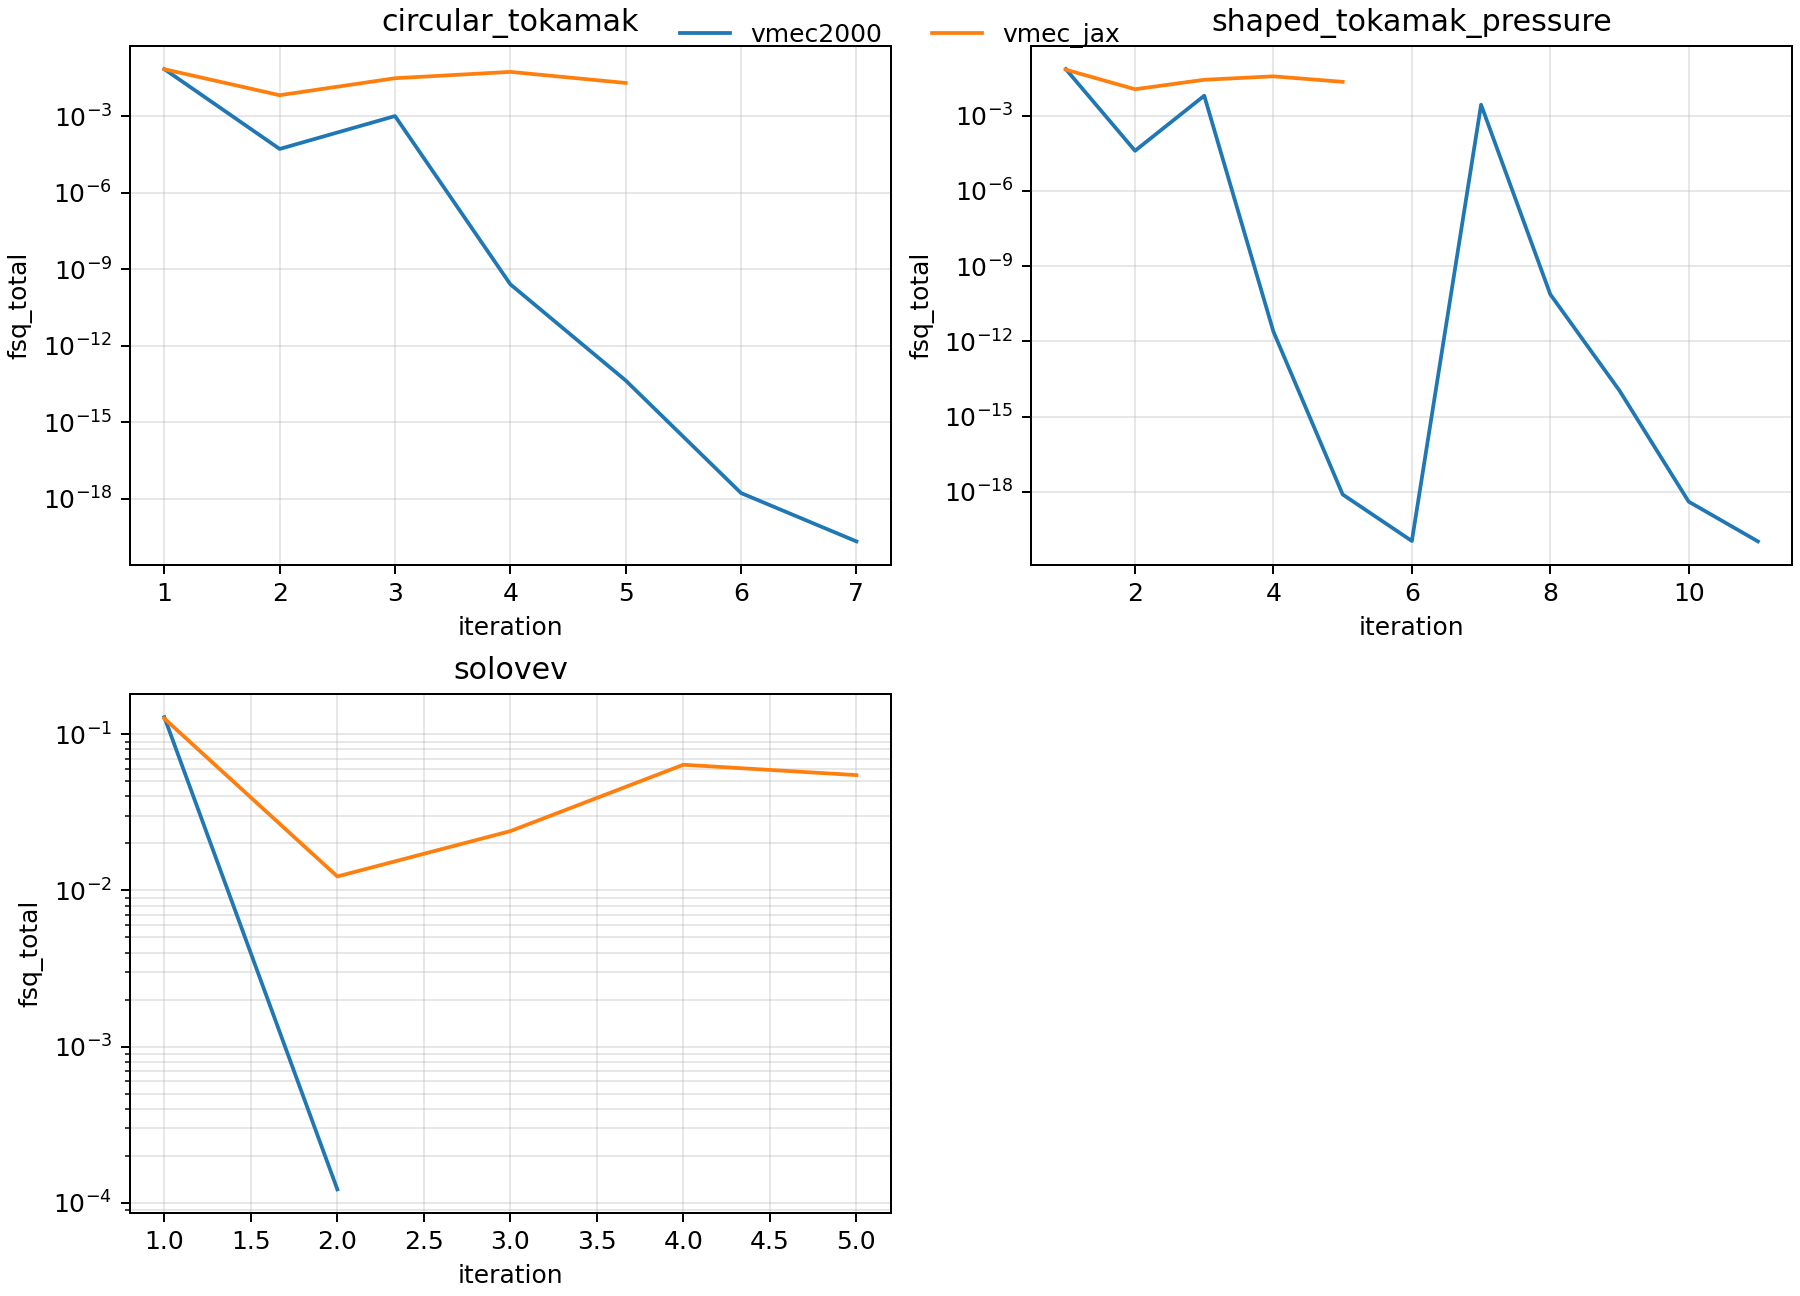
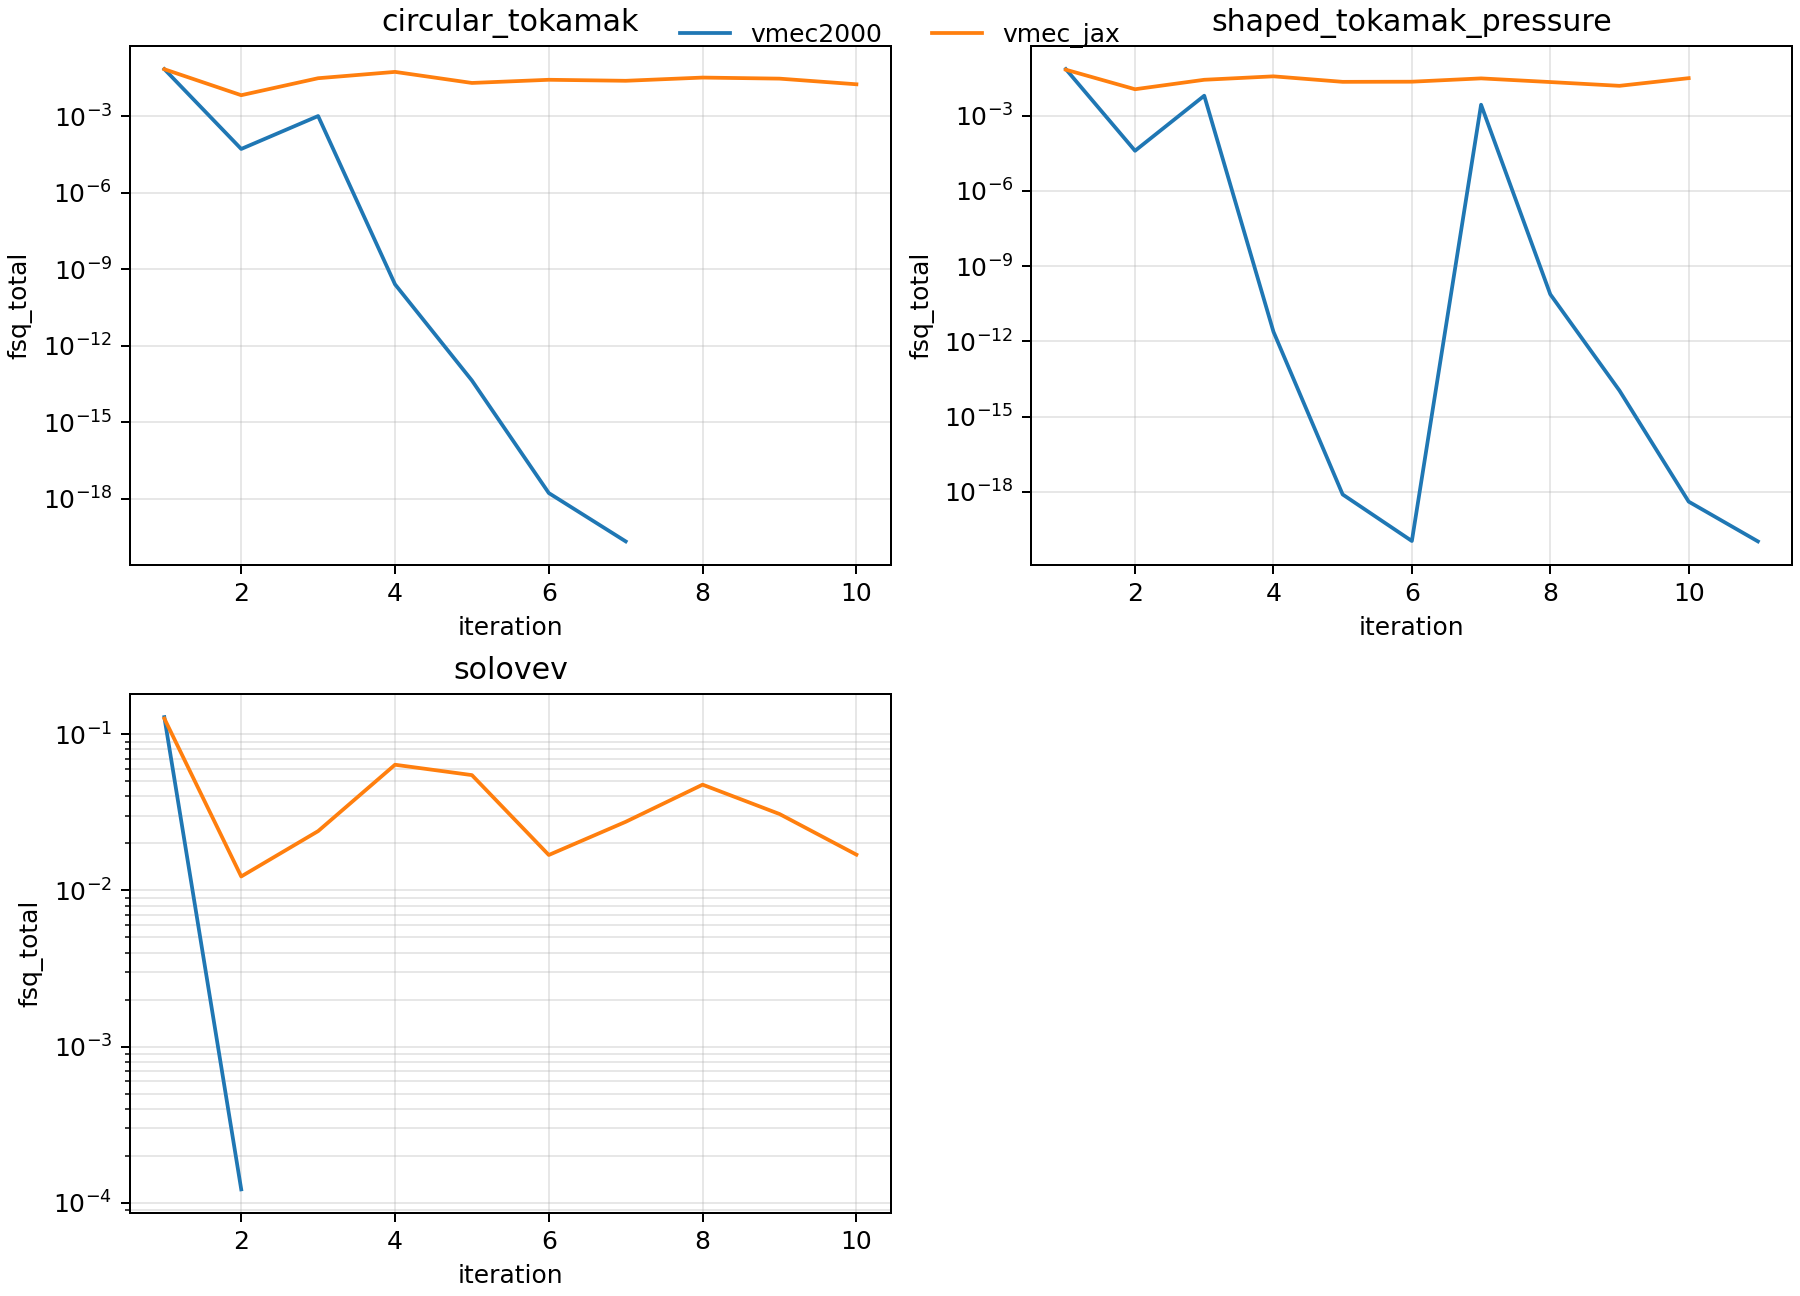
Add lambda-path audit and refresh bench figures

diff --git a/tools/diagnostics/vmec2000_exec_stage_trace_compare.py b/tools/diagnostics/vmec2000_exec_stage_trace_compare.py
@@ -820,6 +820,30 @@ def _max_abs_rel_err(vmec_vals: np.ndarray, jax_vals: np.ndarray, *, eps: float 
     return max_abs, max_rel, i
 
 
+def _decode_tomnsps_index(idx: int, shape: tuple[int, int, int]) -> str:
+    ns, mpol1p1, ntorp1 = shape
+    if idx < 0 or ns <= 0 or mpol1p1 <= 0 or ntorp1 <= 0:
+        return "idx decode unavailable"
+    js = idx // (mpol1p1 * ntorp1)
+    rem = idx % (mpol1p1 * ntorp1)
+    m = rem // ntorp1
+    n = rem % ntorp1
+    return f"js={js+1} m={m} n={n}"
+
+
+def _decode_gc_index(idx: int, shape: tuple[int, int, int, int]) -> str:
+    ns, ntorp1, mpol1p1, ntmax = shape
+    if idx < 0 or ns <= 0 or ntorp1 <= 0 or mpol1p1 <= 0 or ntmax <= 0:
+        return "idx decode unavailable"
+    js = idx // (ntorp1 * mpol1p1 * ntmax)
+    rem = idx % (ntorp1 * mpol1p1 * ntmax)
+    n = rem // (mpol1p1 * ntmax)
+    rem2 = rem % (mpol1p1 * ntmax)
+    m = rem2 // ntmax
+    t = rem2 % ntmax
+    return f"js={js+1} n={n} m={m} t={t+1}"
+
+
 def _patch_indata(text: str, *, updates: dict[str, str]) -> str:
     """Patch simple `&INDATA` assignments in a VMEC namelist.
 
@@ -1538,6 +1562,100 @@ def main() -> None:
                     tol = max(float(args.atol), float(args.rtol) * float(np.nanmax(np.abs(v))))
                     if max_abs > tol:
                         raise SystemExit(2)
+
+    # Lambda-path audit: flsc/gcl vs blmn/clmn at the first mismatch index.
+    if (vmec_tomnsps and jax_tomnsps) or (vmec_gc and jax_gc) or (vmec_kernels and jax_kernels):
+        print()
+        print("lambda-path audit (first mismatch across flsc/gcl/blmn/clmn):")
+
+        def _first_block_mismatch(block_name: str) -> tuple[int, int, float, float] | None:
+            common = sorted(set(vmec_tomnsps.keys()) & set(jax_tomnsps.keys()))
+            for it in common:
+                vm = np.asarray(vmec_tomnsps[it][block_name]).ravel()
+                jx = np.asarray(jax_tomnsps[it].get(block_name, np.zeros_like(vmec_tomnsps[it][block_name]))).ravel()
+                max_abs, max_rel, idx = _max_abs_rel_err(vm, jx)
+                tol = max(float(args.atol), float(args.rtol) * float(np.nanmax(np.abs(vm))))
+                if max_abs > tol:
+                    return it, idx, max_abs, max_rel
+            return None
+
+        def _first_gc_mismatch() -> tuple[int, int, float, float] | None:
+            vm_raw = {it: vals[2] for (stage, it), vals in vmec_gc.items() if stage == "raw"}
+            jx_raw = {it: vals[2] for (stage, it), vals in jax_gc.items() if stage == "raw"}
+            common = sorted(set(vm_raw.keys()) & set(jx_raw.keys()))
+            for it in common:
+                vm = np.asarray(vm_raw[it]).ravel()
+                jx = np.asarray(jx_raw[it]).ravel()
+                max_abs, max_rel, idx = _max_abs_rel_err(vm, jx)
+                tol = max(float(args.atol), float(args.rtol) * float(np.nanmax(np.abs(vm))))
+                if max_abs > tol:
+                    return it, idx, max_abs, max_rel
+            return None
+
+        def _first_kernel_mismatch(name: str) -> tuple[int, int, float, float] | None:
+            common = sorted(set(vmec_kernels.keys()) & set(jax_kernels.keys()))
+            for it in common:
+                vm = np.asarray(vmec_kernels[it][name]).ravel()
+                jx = np.asarray(jax_kernels[it].get(name, np.zeros_like(vmec_kernels[it][name]))).ravel()
+                max_abs, max_rel, idx = _max_abs_rel_err(vm, jx)
+                tol = max(float(args.atol), float(args.rtol) * float(np.nanmax(np.abs(vm))))
+                if max_abs > tol:
+                    return it, idx, max_abs, max_rel
+            return None
+
+        flsc_m = _first_block_mismatch("flsc") if (vmec_tomnsps and jax_tomnsps) else None
+        gcl_m = _first_gc_mismatch() if (vmec_gc and jax_gc) else None
+        blmn_m = _first_kernel_mismatch("blmn") if (vmec_kernels and jax_kernels) else None
+        clmn_m = _first_kernel_mismatch("clmn") if (vmec_kernels and jax_kernels) else None
+
+        it_candidates = [m[0] for m in (flsc_m, gcl_m, blmn_m, clmn_m) if m is not None]
+        if it_candidates:
+            it0 = int(min(it_candidates))
+        else:
+            # No mismatch above tolerance: pick the earliest common iteration for reporting.
+            its = []
+            if vmec_tomnsps and jax_tomnsps:
+                its += list(set(vmec_tomnsps.keys()) & set(jax_tomnsps.keys()))
+            if vmec_gc and jax_gc:
+                its += list({it for (stage, it) in vmec_gc.keys() if stage == "raw"} & {it for (stage, it) in jax_gc.keys() if stage == "raw"})
+            if vmec_kernels and jax_kernels:
+                its += list(set(vmec_kernels.keys()) & set(jax_kernels.keys()))
+            it0 = int(min(its)) if its else -1
+
+        if it0 < 0:
+            print("  No overlapping dumps found for lambda-path audit.")
+        else:
+            if vmec_tomnsps and jax_tomnsps:
+                vm = np.asarray(vmec_tomnsps[it0]["flsc"])
+                jx = np.asarray(jax_tomnsps[it0].get("flsc", np.zeros_like(vm)))
+                max_abs, max_rel, idx = _max_abs_rel_err(vm.ravel(), jx.ravel())
+                decode = _decode_tomnsps_index(idx, vm.shape)
+                print(f"  iter {it0:03d} flsc: max_abs={max_abs:.3e} max_rel={max_rel:.3e} idx={decode}")
+            if vmec_gc and jax_gc:
+                vm_raw = {it: vals[2] for (stage, it), vals in vmec_gc.items() if stage == "raw"}
+                jx_raw = {it: vals[2] for (stage, it), vals in jax_gc.items() if stage == "raw"}
+                if it0 in vm_raw and it0 in jx_raw:
+                    vm = np.asarray(vm_raw[it0])
+                    jx = np.asarray(jx_raw[it0])
+                    max_abs, max_rel, idx = _max_abs_rel_err(vm.ravel(), jx.ravel())
+                    decode = _decode_gc_index(idx, vm.shape)
+                    print(f"  iter {it0:03d} gcl(raw): max_abs={max_abs:.3e} max_rel={max_rel:.3e} idx={decode}")
+            if vmec_kernels and jax_kernels:
+                for name in ("blmn", "clmn"):
+                    vm = np.asarray(vmec_kernels[it0][name])
+                    jx = np.asarray(jax_kernels[it0].get(name, np.zeros_like(vm)))
+                    max_abs, max_rel, idx = _max_abs_rel_err(vm.ravel(), jx.ravel())
+                    # Decode kernel index as (js, lt, lz, mpar) used in prior printout
+                    ns, ntheta3, nzeta, mpar = vm.shape
+                    js = idx // (ntheta3 * nzeta * mpar)
+                    rem = idx % (ntheta3 * nzeta * mpar)
+                    lt = rem // (nzeta * mpar)
+                    rem2 = rem % (nzeta * mpar)
+                    lz = rem2 // mpar
+                    mp = rem2 % mpar
+                    print(
+                        f"  iter {it0:03d} {name}: max_abs={max_abs:.3e} max_rel={max_rel:.3e} idx=js={js} lt={lt} lz={lz} mpar={mp}"
+                    )
 
     if vmec_gc or jax_gc:
         print()